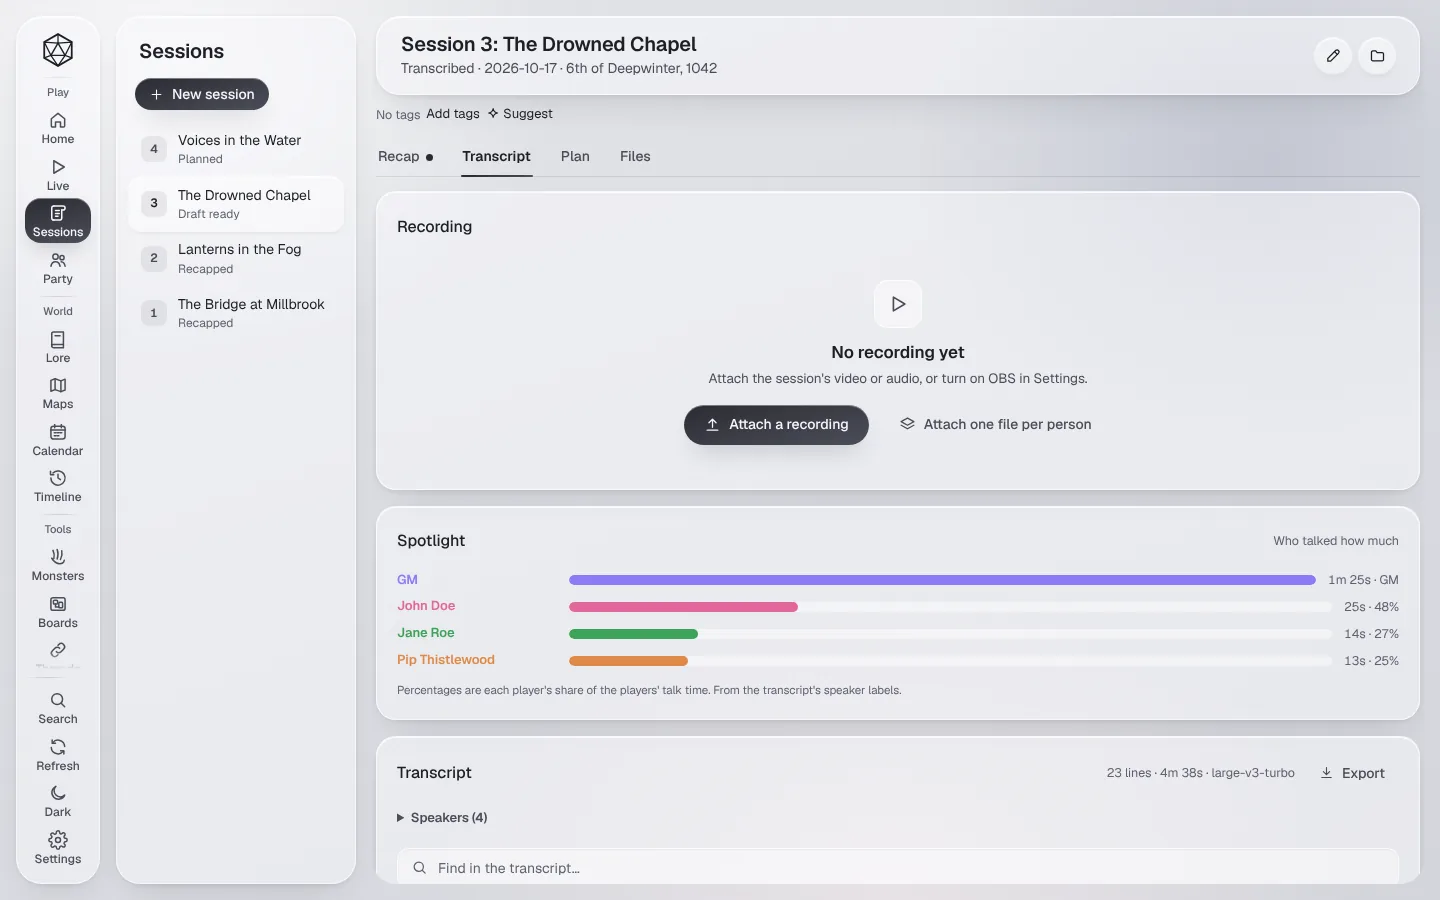
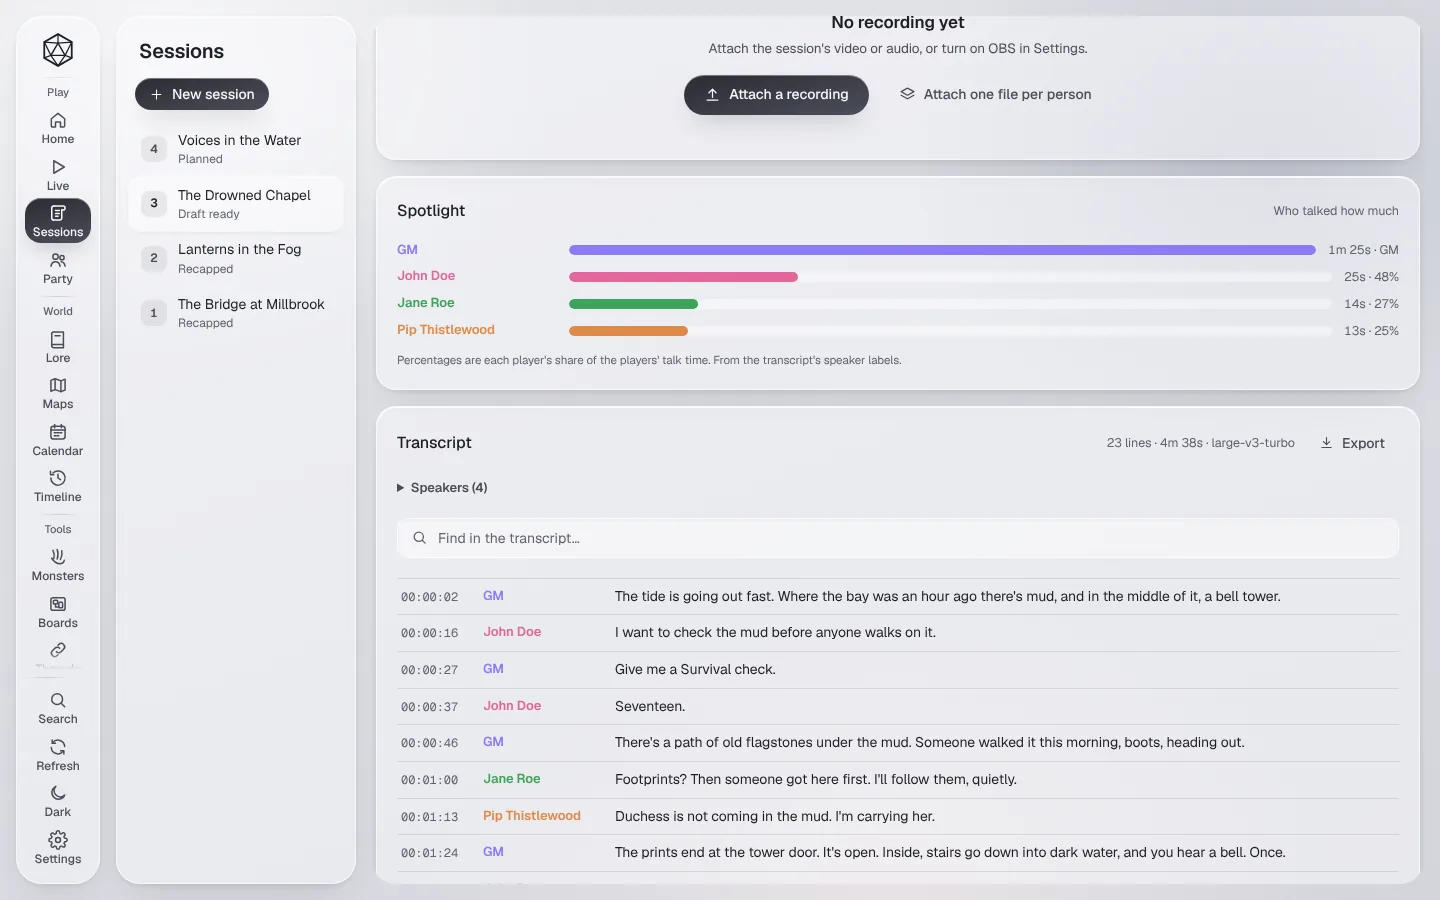
Screenshots: fixes from review
Stop if the port is taken instead of talking to a running Lore Studio, hide the home folder too (the Foundry data folder includes it), skip the browser tab, scroll the transcript into view, and let the server exit before cleanup. Refs #53.

diff --git a/docs/screenshots/take.py b/docs/screenshots/take.py
@@ -3,6 +3,7 @@
 #   python docs/screenshots/take.py
 import json
 import os
+import socket
 import subprocess
 import sys
 import tempfile
@@ -18,11 +19,13 @@ HERE = Path(__file__).resolve().parent
 ROOT = HERE.parents[1]
 SIZE = {"width": 1440, "height": 900}
 PORT = 8765   # the usual port, so the Foundry page shows a familiar address
-# Shown instead of the temporary folder, which would otherwise show in paths (and, on Windows, the username).
+# Shown instead of the temporary campaign folder and the home folder, so no temp path or username appears.
 SHOWN_PATH = "~/Campaigns/The Sunken Crown (demo)"
+# The server, without the browser tab it would open in --browser mode.
+SERVER = "import runpy, sys, webbrowser; webbrowser.open = lambda *a, **k: None; sys.argv = ['main.py'] + sys.argv[1:]; runpy.run_path('main.py', run_name='__main__')"
 
-HIDE_PATH_JS = """([roots, shown]) => {
-  const swap = (s) => roots.reduce((t, r) => t.split(r).join(shown), s);
+HIDE_PATH_JS = """(pairs) => {
+  const swap = (s) => pairs.reduce((t, [from, to]) => t.split(from).join(to), s);
   const walk = document.createTreeWalker(document.body, NodeFilter.SHOW_TEXT);
   for (let n; (n = walk.nextNode());) n.nodeValue = swap(n.nodeValue);
   for (const el of document.querySelectorAll("input, textarea")) { el.value = swap(el.value); el.placeholder = swap(el.placeholder); }
@@ -40,21 +43,30 @@ def main():
             raise RuntimeError(f"{method}: {r['error']}")
         return r.get("result")
 
-    with tempfile.TemporaryDirectory() as tmp:
+    # a Lore Studio already on the port would get the demo campaign instead of this script's own copy
+    with socket.socket() as s:
+        if s.connect_ex(("127.0.0.1", PORT)) == 0:
+            sys.exit(f"Something is already using port {PORT}. Close Lore Studio and run this again.")
+    with tempfile.TemporaryDirectory(ignore_cleanup_errors=True) as tmp:
         # its own app data folder, so the real settings and campaigns are never touched
         env = {**os.environ, "LORE_STUDIO_HOME": str(Path(tmp) / "home")}
-        server = subprocess.Popen([sys.executable, "main.py", "--browser", "--port", str(PORT)], cwd=ROOT, env=env,
+        server = subprocess.Popen([sys.executable, "-c", SERVER, "--browser", "--port", str(PORT)], cwd=ROOT, env=env,
                                   stdout=subprocess.DEVNULL, stderr=subprocess.DEVNULL)
         try:
             for _ in range(100):
+                if server.poll() is not None:
+                    sys.exit("Lore Studio didn't start. Run `python main.py --browser` to see why.")
                 try:
                     urllib.request.urlopen(base, timeout=1)
                     break
                 except OSError:
                     time.sleep(0.2)
+            else:
+                sys.exit("Lore Studio didn't start in 20 seconds.")
             take_all(api, base, tmp)
         finally:
             server.terminate()
+            server.wait(10)
 
 
 def take_all(api, base, tmp):
@@ -67,6 +79,8 @@ def take_all(api, base, tmp):
                                             {"kind": "srd", "ref": "wolf", "count": 2}]})["id"]
     api("save_discord_config", {"webhooks": [{"name": "#session-recaps",
                                               "url": "https://discord.com/api/webhooks/1/demo"}]})
+    home = str(Path.home())
+    swaps = [[p, SHOWN_PATH] for p in (root, root.replace("\\", "/"))] + [[p, "~"] for p in (home, home.replace("\\", "/"))]
     party = {p["character"]: p["id"] for p in api("party")["party"]}
 
     shots = [
@@ -105,7 +119,9 @@ def take_all(api, base, tmp):
             if name == "discordpost":
                 page.get_by_role("button", name="Post to Discord").click()
                 page.wait_for_timeout(1000)
-            page.evaluate(HIDE_PATH_JS, [[root, root.replace("\\", "/")], SHOWN_PATH])
+            if name == "transcript":   # past the Spotlight card, so transcript lines show
+                page.evaluate("document.querySelector('.main').scrollBy(0, 330)")
+            page.evaluate(HIDE_PATH_JS, swaps)
             save(page, name)
         tid = api("player_site_build")
         while (api("task", tid) or {}).get("status") == "running":

diff --git a/CONTRIBUTING.md b/CONTRIBUTING.md
@@ -49,7 +49,7 @@ python -m playwright install chromium
 python docs/screenshots/take.py
 ```
 
-It runs Lore Studio on port 8765 with its own temporary data folder, so your settings and campaigns aren't touched. Close anything else using that port first.
+It runs its own Lore Studio on port 8765 with a temporary data folder, so your settings and campaigns aren't touched. If something is already using that port, it stops and says so.
 
 ## How the code is laid out
 
